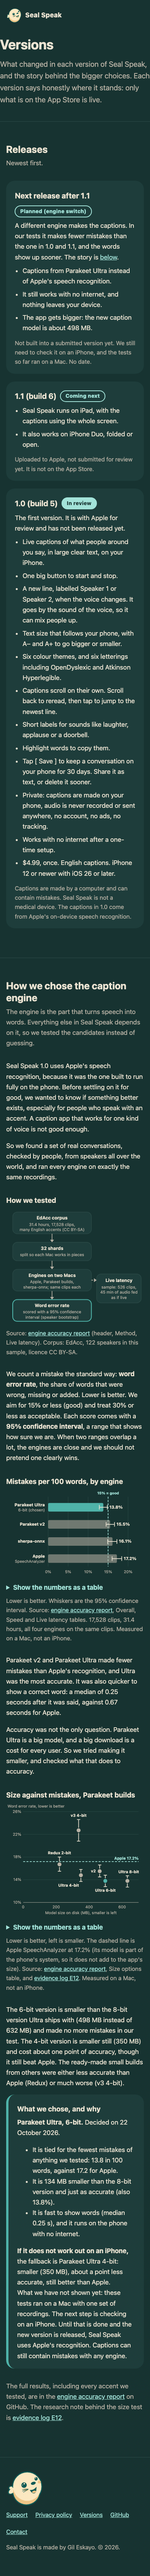
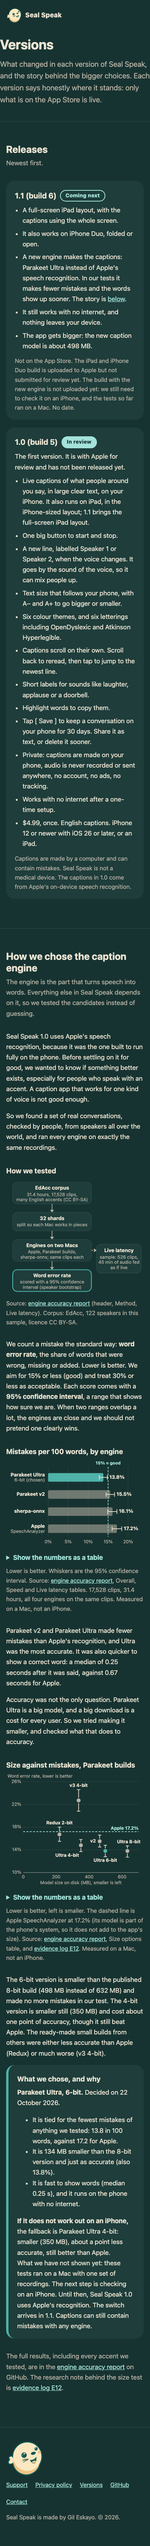
Site: Versions page, engine switch moves into 1.1 (#151)

Changed region(s): [[0.0308, 0.0, 0.9538, 0.9997]]

diff --git a/site/versions.html b/site/versions.html
@@ -126,30 +126,22 @@
       <p class="intro">Newest first.</p>
 
       <div class="card release">
-        <h3>Next release after 1.1 <span class="badge">Planned (engine switch)</span></h3>
-        <p>A different engine makes the captions. In our tests it makes fewer mistakes than the one in 1.0 and 1.1, and the words show up sooner. The story is <a href="#engine">below</a>.</p>
+        <h3>1.1 (build 6) <span class="badge">Coming next</span></h3>
         <ul>
-          <li>Captions from Parakeet Ultra instead of Apple's speech recognition.</li>
+          <li>A full-screen iPad layout, with the captions using the whole screen.</li>
+          <li>It also works on iPhone Duo, folded or open.</li>
+          <li>A new engine makes the captions: Parakeet Ultra instead of Apple's speech recognition. In our tests it makes fewer mistakes and the words show up sooner. The story is <a href="#engine">below</a>.</li>
           <li>It still works with no internet, and nothing leaves your device.</li>
           <li>The app gets bigger: the new caption model is about 498 MB.</li>
         </ul>
-        <p class="note">Not built into a submitted version yet. We still need to check it on an iPhone, and the tests so far ran on a Mac. No date.</p>
-      </div>
-
-      <div class="card release">
-        <h3>1.1 (build 6) <span class="badge">Coming next</span></h3>
-        <ul>
-          <li>Seal Speak runs on iPad, with the captions using the whole screen.</li>
-          <li>It also works on iPhone Duo, folded or open.</li>
-        </ul>
-        <p class="note">Uploaded to Apple, not submitted for review yet. It is not on the App Store.</p>
+        <p class="note">Not on the App Store. The iPad and iPhone Duo build is uploaded to Apple but not submitted for review yet. The build with the new engine is not uploaded yet: we still need to check it on an iPhone, and the tests so far ran on a Mac. No date.</p>
       </div>
 
       <div class="card release">
         <h3>1.0 (build 5) <span class="badge review">In review</span></h3>
         <p>The first version. It is with Apple for review and has not been released yet.</p>
         <ul>
-          <li>Live captions of what people around you say, in large clear text, on your iPhone.</li>
+          <li>Live captions of what people around you say, in large clear text, on your iPhone. It also runs on iPad, in the iPhone-sized layout; 1.1 brings the full-screen iPad layout.</li>
           <li>One big button to start and stop.</li>
           <li>A new line, labelled Speaker 1 or Speaker 2, when the voice changes. It goes by the sound of the voice, so it can mix people up.</li>
           <li>Text size that follows your phone, with A&minus; and A+ to go bigger or smaller.</li>
@@ -160,7 +152,7 @@
           <li>Tap [&nbsp;Save&nbsp;] to keep a conversation on your phone for 30 days. Share it as text, or delete it sooner.</li>
           <li>Private: captions are made on your phone, audio is never recorded or sent anywhere, no account, no ads, no tracking.</li>
           <li>Works with no internet after a one-time setup.</li>
-          <li>$4.99, once. English captions. iPhone 12 or newer with iOS 26 or later.</li>
+          <li>$4.99, once. English captions. iPhone 12 or newer with iOS 26 or later, or an iPad.</li>
         </ul>
         <p class="note">Captions are made by a computer and can contain mistakes. Seal Speak is not a medical device. The captions in 1.0 come from Apple's on-device speech recognition.</p>
       </div>
@@ -181,7 +173,7 @@
         <svg viewBox="0 0 420 352" role="img" aria-labelledby="m-t m-d">
 <title id="m-t">How the caption engines were tested</title>
 <desc id="m-d">Four steps from top to bottom. The EdAcc corpus, 31.4 hours of conversations in many English accents under a CC BY-SA licence, is split into 32 shards. Each engine runs on the same clips on two Macs. Each engine's word error rate is scored with a 95% confidence interval. A separate live latency sample of 526 clips, 45 minutes of audio, measures how soon words appear when audio is fed as if live.</desc>
-<rect class="box" x="20" y="8" width="240" height="66" rx="14"/><text x="140.0" y="31" text-anchor="middle" font-size="14" class="b">EdAcc corpus</text><text class="m" x="140.0" y="50" text-anchor="middle" font-size="12.5">31.4 hours, 17,528 clips,</text><text class="m" x="140.0" y="66" text-anchor="middle" font-size="12.5">many English accents (CC BY-SA)</text><path class="arrow" d="M140 74V94"/><path class="arrowhead" d="M134 92L140 100L146 92Z"/><rect class="box" x="20" y="100" width="240" height="56" rx="14"/><text x="140.0" y="123" text-anchor="middle" font-size="14" class="b">32 shards</text><text class="m" x="140.0" y="142" text-anchor="middle" font-size="12.5">split so each Mac works in pieces</text><path class="arrow" d="M140 156V176"/><path class="arrowhead" d="M134 174L140 182L146 174Z"/><rect class="box" x="20" y="182" width="240" height="66" rx="14"/><text x="140.0" y="205" text-anchor="middle" font-size="14" class="b">Engines on two Macs</text><text class="m" x="140.0" y="224" text-anchor="middle" font-size="12.5">Apple, Parakeet builds,</text><text class="m" x="140.0" y="240" text-anchor="middle" font-size="12.5">sherpa-onnx; same clips each</text><path class="arrow" d="M140 248V268"/><path class="arrowhead" d="M134 266L140 274L146 266Z"/><rect class="box pick" x="20" y="274" width="240" height="66" rx="14"/><text x="140.0" y="297" text-anchor="middle" font-size="14" class="b">Word error rate</text><text class="m" x="140.0" y="316" text-anchor="middle" font-size="12.5">scored with a 95% confidence</text><text class="m" x="140.0" y="332" text-anchor="middle" font-size="12.5">interval (speaker bootstrap)</text><rect class="box" x="276" y="196" width="136" height="88" rx="14"/><text x="344" y="220" text-anchor="middle" font-size="14" class="b">Live latency</text><text class="m" x="344" y="240" text-anchor="middle" font-size="12.5">sample: 526 clips,</text><text class="m" x="344" y="256" text-anchor="middle" font-size="12.5">45 min of audio fed</text><text class="m" x="344" y="272" text-anchor="middle" font-size="12.5">as if live</text><path class="arrow" d="M260 215H268" stroke-dasharray="5 4"/><path class="arrowhead" d="M268 209L276 215L268 221Z"/>
+<rect class="box" x="20" y="8" width="240" height="66" rx="14"/><text x="140.0" y="31" text-anchor="middle" font-size="15.5" class="b">EdAcc corpus</text><text class="m" x="140.0" y="50" text-anchor="middle" font-size="14">31.4 hours, 17,528 clips,</text><text class="m" x="140.0" y="66" text-anchor="middle" font-size="14">many English accents (CC BY-SA)</text><path class="arrow" d="M140 74V94"/><path class="arrowhead" d="M134 92L140 100L146 92Z"/><rect class="box" x="20" y="100" width="240" height="56" rx="14"/><text x="140.0" y="123" text-anchor="middle" font-size="15.5" class="b">32 shards</text><text class="m" x="140.0" y="142" text-anchor="middle" font-size="14">split so each Mac works in pieces</text><path class="arrow" d="M140 156V176"/><path class="arrowhead" d="M134 174L140 182L146 174Z"/><rect class="box" x="20" y="182" width="240" height="66" rx="14"/><text x="140.0" y="205" text-anchor="middle" font-size="15.5" class="b">Engines on two Macs</text><text class="m" x="140.0" y="224" text-anchor="middle" font-size="14">Apple, Parakeet builds,</text><text class="m" x="140.0" y="240" text-anchor="middle" font-size="14">sherpa-onnx; same clips each</text><path class="arrow" d="M140 248V268"/><path class="arrowhead" d="M134 266L140 274L146 266Z"/><rect class="box pick" x="20" y="274" width="240" height="66" rx="14"/><text x="140.0" y="297" text-anchor="middle" font-size="15.5" class="b">Word error rate</text><text class="m" x="140.0" y="316" text-anchor="middle" font-size="14">scored with a 95% confidence</text><text class="m" x="140.0" y="332" text-anchor="middle" font-size="14">interval (speaker bootstrap)</text><rect class="box" x="276" y="196" width="136" height="88" rx="14"/><text x="344" y="220" text-anchor="middle" font-size="15.5" class="b">Live latency</text><text class="m" x="344" y="240" text-anchor="middle" font-size="14">sample: 526 clips,</text><text class="m" x="344" y="256" text-anchor="middle" font-size="14">45 min of audio fed</text><text class="m" x="344" y="272" text-anchor="middle" font-size="14">as if live</text><path class="arrow" d="M260 215H268" stroke-dasharray="5 4"/><path class="arrowhead" d="M268 209L276 215L268 221Z"/>
 </svg>
         <figcaption class="src">Source: <a href="https://github.com/G-Eskayo/clarity-captions/blob/feature/145-engine-eval/docs/perf/engine-accuracy-comparison.md">engine accuracy report</a> (header, Method, Live latency). Corpus: EdAcc, 122 speakers in this sample, licence CC BY-SA.</figcaption>
       </figure>
@@ -195,8 +187,8 @@
         <svg viewBox="0 0 420 266" role="img" aria-labelledby="a-t a-d">
 <title id="a-t">Word error rate by caption engine, with 95% confidence intervals</title>
 <desc id="a-d">Lower is better. Parakeet Ultra 6-bit 13.8% (12.8 to 14.8). Parakeet v2 15.5% (14.5 to 16.6). sherpa-onnx 16.1% (14.9 to 17.2). Apple SpeechAnalyzer 17.2% (16.0 to 18.4). A dashed line marks the 15% target for good.</desc>
-<line class="grid" x1="128.0" y1="20" x2="128.0" y2="232"/><text class="m" x="128.0" y="252" text-anchor="middle" font-size="12">0%</text><line class="grid" x1="189.0" y1="20" x2="189.0" y2="232"/><text class="m" x="189.0" y="252" text-anchor="middle" font-size="12">5%</text><line class="grid" x1="250.0" y1="20" x2="250.0" y2="232"/><text class="m" x="250.0" y="252" text-anchor="middle" font-size="12">10%</text><line class="grid" x1="311.0" y1="20" x2="311.0" y2="232"/><text class="m" x="311.0" y="252" text-anchor="middle" font-size="12">15%</text><line class="grid" x1="372.0" y1="20" x2="372.0" y2="232"/><text class="m" x="372.0" y="252" text-anchor="middle" font-size="12">20%</text><line class="ref" x1="311.0" y1="20" x2="311.0" y2="232"/><text class="reflabel" x="311.0" y="13" text-anchor="middle" font-size="11">15% = good</text><text x="118" y="49" text-anchor="end" font-size="13" class="b">Parakeet Ultra</text><text class="m" x="118" y="65" text-anchor="end" font-size="12">6-bit (chosen)</text><rect class="bar pick" x="128" y="39" width="168.4" height="26" rx="4"/><path class="whisk" d="M284.2 52H308.6M284.2 45V59M308.6 45V59"/><text x="118" y="108" text-anchor="end" font-size="13" class="b">Parakeet v2</text><rect class="bar" x="128" y="91" width="189.1" height="26" rx="4"/><path class="whisk" d="M304.9 104H330.5M304.9 97V111M330.5 97V111"/><text x="118" y="160" text-anchor="end" font-size="13" class="b">sherpa-onnx</text><rect class="bar" x="128" y="143" width="196.4" height="26" rx="4"/><path class="whisk" d="M309.8 156H337.8M309.8 149V163M337.8 149V163"/><text x="118" y="205" text-anchor="end" font-size="13" class="b">Apple</text><text class="m" x="118" y="221" text-anchor="end" font-size="12">SpeechAnalyzer</text><rect class="bar" x="128" y="195" width="209.8" height="26" rx="4"/><path class="whisk" d="M323.2 208H352.5M323.2 201V215M352.5 201V215"/>
-<text x="314.6" y="56" font-size="13" class="b">13.8%</text><text x="336.5" y="108" font-size="13" class="b">15.5%</text><text x="343.8" y="160" font-size="13" class="b">16.1%</text><text x="358.5" y="212" font-size="13" class="b">17.2%</text>
+<line class="grid" x1="128.0" y1="20" x2="128.0" y2="232"/><text class="m" x="128.0" y="252" text-anchor="middle" font-size="14">0%</text><line class="grid" x1="189.0" y1="20" x2="189.0" y2="232"/><text class="m" x="189.0" y="252" text-anchor="middle" font-size="14">5%</text><line class="grid" x1="250.0" y1="20" x2="250.0" y2="232"/><text class="m" x="250.0" y="252" text-anchor="middle" font-size="14">10%</text><line class="grid" x1="311.0" y1="20" x2="311.0" y2="232"/><text class="m" x="311.0" y="252" text-anchor="middle" font-size="14">15%</text><line class="grid" x1="372.0" y1="20" x2="372.0" y2="232"/><text class="m" x="372.0" y="252" text-anchor="middle" font-size="14">20%</text><line class="ref" x1="311.0" y1="20" x2="311.0" y2="232"/><text class="reflabel" x="311.0" y="13" text-anchor="middle" font-size="13">15% = good</text><text x="118" y="49" text-anchor="end" font-size="15" class="b">Parakeet Ultra</text><text class="m" x="118" y="65" text-anchor="end" font-size="14">6-bit (chosen)</text><rect class="bar pick" x="128" y="39" width="168.4" height="26" rx="4"/><path class="whisk" d="M284.2 52H308.6M284.2 45V59M308.6 45V59"/><text x="118" y="108" text-anchor="end" font-size="15" class="b">Parakeet v2</text><rect class="bar" x="128" y="91" width="189.1" height="26" rx="4"/><path class="whisk" d="M304.9 104H330.5M304.9 97V111M330.5 97V111"/><text x="118" y="160" text-anchor="end" font-size="15" class="b">sherpa-onnx</text><rect class="bar" x="128" y="143" width="196.4" height="26" rx="4"/><path class="whisk" d="M309.8 156H337.8M309.8 149V163M337.8 149V163"/><text x="118" y="205" text-anchor="end" font-size="15" class="b">Apple</text><text class="m" x="118" y="221" text-anchor="end" font-size="14">SpeechAnalyzer</text><rect class="bar" x="128" y="195" width="209.8" height="26" rx="4"/><path class="whisk" d="M323.2 208H352.5M323.2 201V215M352.5 201V215"/>
+<text x="314.6" y="56" font-size="15" class="b">13.8%</text><text x="336.5" y="108" font-size="15" class="b">15.5%</text><text x="343.8" y="160" font-size="15" class="b">16.1%</text><text x="358.5" y="212" font-size="15" class="b">17.2%</text>
 </svg>
         <details class="data"><summary>Show the numbers as a table</summary><div class="tablewrap"><table class="data"><caption class="sr-only">Word error rate by engine</caption><thead><tr><th scope="col">Engine</th><th class="n" scope="col">WER</th><th class="n" scope="col">95% CI</th><th class="n" scope="col">Correct word, median</th><th class="n" scope="col">Speed</th></tr></thead><tbody><tr><th scope="row">Parakeet Ultra 6-bit</th><td class="n">13.8%</td><td class="n">12.8% to 14.8%</td><td class="n">0.25 s</td><td class="n">101.6x real time</td></tr><tr><th scope="row">Parakeet v2</th><td class="n">15.5%</td><td class="n">14.5% to 16.6%</td><td class="n">0.24 s</td><td class="n">117.3x</td></tr><tr><th scope="row">sherpa-onnx</th><td class="n">16.1%</td><td class="n">14.9% to 17.2%</td><td class="n">0.39 s</td><td class="n">31.0x</td></tr><tr><th scope="row">Apple SpeechAnalyzer</th><td class="n">17.2%</td><td class="n">16.0% to 18.4%</td><td class="n">0.67 s</td><td class="n">43.6x</td></tr></tbody></table></div></details>
         <figcaption class="src">Lower is better. Whiskers are the 95% confidence interval. Source: <a href="https://github.com/G-Eskayo/clarity-captions/blob/feature/145-engine-eval/docs/perf/engine-accuracy-comparison.md">engine accuracy report</a>, Overall, Speed and Live latency tables. 17,528 clips, 31.4 hours, all four engines on the same clips. Measured on a Mac, not an iPhone.</figcaption>
@@ -212,14 +204,14 @@
         <svg viewBox="0 0 420 346" role="img" aria-labelledby="b-t b-d">
 <title id="b-t">Model size against word error rate for the Parakeet builds</title>
 <desc id="b-d">Lower is better, and further left is smaller. Ultra 6-bit is 498 MB at 13.8%, the same accuracy as the 632 MB Ultra 8-bit. Ultra 4-bit is 350 MB at 14.8%. Parakeet v2 is 464 MB at 15.5%. Redux is 220 MB at 16.7%. The v3 4-bit build is 336 MB at 22.7%. A dashed line marks Apple SpeechAnalyzer at 17.2%. Ultra 6-bit, Ultra 4-bit, v2 and Ultra 8-bit all sit below it.</desc>
-<line class="grid" x1="52" y1="300.0" x2="404" y2="300.0"/><text class="m" x="46" y="304.0" text-anchor="end" font-size="12">10%</text><line class="grid" x1="52" y1="231.0" x2="404" y2="231.0"/><text class="m" x="46" y="235.0" text-anchor="end" font-size="12">14%</text><line class="grid" x1="52" y1="162.0" x2="404" y2="162.0"/><text class="m" x="46" y="166.0" text-anchor="end" font-size="12">18%</text><line class="grid" x1="52" y1="93.0" x2="404" y2="93.0"/><text class="m" x="46" y="97.0" text-anchor="end" font-size="12">22%</text><line class="grid" x1="52" y1="24.0" x2="404" y2="24.0"/><text class="m" x="46" y="28.0" text-anchor="end" font-size="12">26%</text><text class="m" x="52.0" y="318" text-anchor="middle" font-size="12">0</text><text class="m" x="152.6" y="318" text-anchor="middle" font-size="12">200</text><text class="m" x="253.1" y="318" text-anchor="middle" font-size="12">400</text><text class="m" x="353.7" y="318" text-anchor="middle" font-size="12">600</text><text class="m" x="228" y="336" text-anchor="middle" font-size="12">Model size on disk (MB), smaller is left</text><text class="m" x="4" y="12" font-size="12">Word error rate, lower is better</text><line class="axis" x1="52" y1="300" x2="404" y2="300"/><line class="ref" x1="52" y1="175.8" x2="404" y2="175.8"/><text class="reflabel" x="404" y="169.8" text-anchor="end" font-size="12">Apple 17.2%</text><path class="whisk" d="M162.6 205.1V162.0M157.6 205.1H167.6M157.6 162.0H167.6"/><circle class="dot" cx="162.6" cy="184.4" r="7"/><text x="162.6" y="154.0" text-anchor="middle" font-size="12" class="b">Redux 2-bit</text><path class="whisk" d="M221.0 113.7V48.1M216.0 113.7H226.0M216.0 48.1H226.0"/><circle class="dot" cx="221.0" cy="80.9" r="7"/><text x="221.0" y="40.1" text-anchor="middle" font-size="12" class="b">v3 4-bit</text><path class="whisk" d="M228.0 236.2V199.9M223.0 236.2H233.0M223.0 199.9H233.0"/><circle class="dot" cx="228.0" cy="217.2" r="7"/><text x="222.0" y="252.2" text-anchor="end" font-size="12" class="b">Ultra 4-bit</text><path class="whisk" d="M285.3 222.4V186.1M280.3 222.4H290.3M280.3 186.1H290.3"/><circle class="dot" cx="285.3" cy="205.1" r="7"/><text x="273.3" y="209.1" text-anchor="end" font-size="12" class="b">v2</text><path class="whisk" d="M302.4 251.7V217.2M297.4 251.7H307.4M297.4 217.2H307.4"/><circle class="dot pick" cx="302.4" cy="234.4" r="7"/><text x="302.4" y="267.7" text-anchor="middle" font-size="12" class="b">Ultra 6-bit</text><path class="whisk" d="M369.8 253.4V218.9M364.8 253.4H374.8M364.8 218.9H374.8"/><circle class="dot" cx="369.8" cy="234.4" r="7"/><text x="373.8" y="210.9" text-anchor="middle" font-size="12" class="b">Ultra 8-bit</text>
+<line class="grid" x1="52" y1="300.0" x2="404" y2="300.0"/><text class="m" x="46" y="304.0" text-anchor="end" font-size="14">10%</text><line class="grid" x1="52" y1="231.0" x2="404" y2="231.0"/><text class="m" x="46" y="235.0" text-anchor="end" font-size="14">14%</text><line class="grid" x1="52" y1="162.0" x2="404" y2="162.0"/><text class="m" x="46" y="166.0" text-anchor="end" font-size="14">18%</text><line class="grid" x1="52" y1="93.0" x2="404" y2="93.0"/><text class="m" x="46" y="97.0" text-anchor="end" font-size="14">22%</text><line class="grid" x1="52" y1="24.0" x2="404" y2="24.0"/><text class="m" x="46" y="28.0" text-anchor="end" font-size="14">26%</text><text class="m" x="52.0" y="318" text-anchor="middle" font-size="14">0</text><text class="m" x="152.6" y="318" text-anchor="middle" font-size="14">200</text><text class="m" x="253.1" y="318" text-anchor="middle" font-size="14">400</text><text class="m" x="353.7" y="318" text-anchor="middle" font-size="14">600</text><text class="m" x="228" y="336" text-anchor="middle" font-size="14">Model size on disk (MB), smaller is left</text><text class="m" x="4" y="12" font-size="14">Word error rate, lower is better</text><line class="axis" x1="52" y1="300" x2="404" y2="300"/><line class="ref" x1="52" y1="175.8" x2="404" y2="175.8"/><text class="reflabel" x="404" y="169.8" text-anchor="end" font-size="14">Apple 17.2%</text><path class="whisk" d="M162.6 205.1V162.0M157.6 205.1H167.6M157.6 162.0H167.6"/><circle class="dot" cx="162.6" cy="184.4" r="7"/><text x="162.6" y="154.0" text-anchor="middle" font-size="14" class="b">Redux 2-bit</text><path class="whisk" d="M221.0 113.7V48.1M216.0 113.7H226.0M216.0 48.1H226.0"/><circle class="dot" cx="221.0" cy="80.9" r="7"/><text x="221.0" y="40.1" text-anchor="middle" font-size="14" class="b">v3 4-bit</text><path class="whisk" d="M228.0 236.2V199.9M223.0 236.2H233.0M223.0 199.9H233.0"/><circle class="dot" cx="228.0" cy="217.2" r="7"/><text x="222.0" y="252.2" text-anchor="end" font-size="14" class="b">Ultra 4-bit</text><path class="whisk" d="M285.3 222.4V186.1M280.3 222.4H290.3M280.3 186.1H290.3"/><circle class="dot" cx="285.3" cy="205.1" r="7"/><text x="273.3" y="209.1" text-anchor="end" font-size="14" class="b">v2</text><path class="whisk" d="M302.4 251.7V217.2M297.4 251.7H307.4M297.4 217.2H307.4"/><circle class="dot pick" cx="302.4" cy="234.4" r="7"/><text x="302.4" y="267.7" text-anchor="middle" font-size="14" class="b">Ultra 6-bit</text><path class="whisk" d="M369.8 253.4V218.9M364.8 253.4H374.8M364.8 218.9H374.8"/><circle class="dot" cx="369.8" cy="234.4" r="7"/><text x="373.8" y="210.9" text-anchor="middle" font-size="14" class="b">Ultra 8-bit</text>
 </svg>
         <details class="data"><summary>Show the numbers as a table</summary><div class="tablewrap"><table class="data"><caption class="sr-only">Size and word error rate of the Parakeet builds</caption><thead><tr><th scope="col">Build</th><th class="n" scope="col">On disk</th><th class="n" scope="col">WER</th><th class="n" scope="col">95% CI</th><th class="n" scope="col">Beats Apple?</th></tr></thead><tbody><tr><th scope="row">Redux (2-bit)</th><td class="n">220 MB</td><td class="n">16.7%</td><td class="n">15.5% to 18.0%</td><td class="n">no</td></tr><tr><th scope="row">v3 (4-bit)</th><td class="n">336 MB</td><td class="n">22.7%</td><td class="n">20.8% to 24.6%</td><td class="n">no</td></tr><tr><th scope="row">Ultra 4-bit</th><td class="n">350 MB</td><td class="n">14.8%</td><td class="n">13.7% to 15.8%</td><td class="n">yes</td></tr><tr><th scope="row">v2</th><td class="n">464 MB</td><td class="n">15.5%</td><td class="n">14.5% to 16.6%</td><td class="n">yes</td></tr><tr><th scope="row">Ultra 6-bit (chosen)</th><td class="n">498 MB</td><td class="n">13.8%</td><td class="n">12.8% to 14.8%</td><td class="n">yes</td></tr><tr><th scope="row">Ultra 8-bit (as published)</th><td class="n">632 MB</td><td class="n">13.8%</td><td class="n">12.7% to 14.7%</td><td class="n">yes</td></tr></tbody></table></div></details>
         <figcaption class="src">Lower is better, left is smaller. The dashed line is Apple SpeechAnalyzer at 17.2% (its model is part of the phone's system, so it does not add to the app's size). Source: <a href="https://github.com/G-Eskayo/clarity-captions/blob/feature/145-engine-eval/docs/perf/engine-accuracy-comparison.md">engine accuracy report</a>, Size options table, and <a href="https://github.com/G-Eskayo/clarity-captions/blob/feature/145-engine-eval/docs/research/evidence-log.md">evidence log E12</a>. Measured on a Mac, not an iPhone.</figcaption>
       </figure>
 
       <div class="prose">
-        <p>The 6-bit version is smaller than the 8-bit version Ultra ships with (498 MB instead of 632 MB) and made no more mistakes in our test. The 4-bit version is smaller still (350 MB) and cost about one point of accuracy, though it still beat Apple. The ready-made small builds from others were either less accurate than Apple (Redux) or much worse (v3 4-bit).</p>
+        <p>The 6-bit version is smaller than the published 8-bit build (498 MB instead of 632 MB) and made no more mistakes in our test. The 4-bit version is smaller still (350 MB) and cost about one point of accuracy, though it still beat Apple. The ready-made small builds from others were either less accurate than Apple (Redux) or much worse (v3 4-bit).</p>
       </div>
 
       <div class="card pick-card">
@@ -231,7 +223,7 @@
           <li>It is fast to show words (median 0.25 s), and it runs on the phone with no internet.</li>
         </ul>
         <p><strong>If it does not work out on an iPhone,</strong> the fallback is Parakeet Ultra 4-bit: smaller (350 MB), about a point less accurate, still better than Apple.</p>
-        <p class="note">What we have not shown yet: these tests ran on a Mac with one set of recordings. The next step is checking on an iPhone. Until that is done and the new version is released, Seal Speak uses Apple's recognition. Captions can still contain mistakes with any engine.</p>
+        <p class="note">What we have not shown yet: these tests ran on a Mac with one set of recordings. The next step is checking on an iPhone. Until then, Seal Speak 1.0 uses Apple's recognition. The switch arrives in 1.1. Captions can still contain mistakes with any engine.</p>
       </div>
 
       <p class="intro" style="margin-top:2rem">The full results, including every accent we tested, are in the <a href="https://github.com/G-Eskayo/clarity-captions/blob/feature/145-engine-eval/docs/perf/engine-accuracy-comparison.md">engine accuracy report</a> on GitHub. The research note behind the size test is <a href="https://github.com/G-Eskayo/clarity-captions/blob/feature/145-engine-eval/docs/research/evidence-log.md">evidence log E12</a>.</p>

diff --git a/docs/design/versions-page.md b/docs/design/versions-page.md
@@ -14,9 +14,8 @@ Same as `site/index.html`: Peach in light, Harbor in dark (`prefers-color-scheme
 
 1. **Header / intro.** What this page is. States that unreleased versions are labelled as such.
 2. **Releases**, newest first, each with an honest status badge:
-   - *Planned (engine switch)*: captions from Parakeet Ultra 6-bit instead of Apple's recognizer. Not built into a submitted release yet; iPhone checks still to do.
-   - *Coming next, 1.1 (build 6)*: iPad and iPhone Duo. Uploaded, not yet submitted.
-   - *In review, 1.0 (build 5)*: everything in the 1.0 App Store listing, in user language. Not released.
+   - *Coming next, 1.1 (build 6)*: full-screen iPad layout, iPhone Duo, and the engine switch to Parakeet Ultra 6-bit. The iPad/Duo build is uploaded, not submitted; the engine build is not uploaded yet; iPhone checks still to do.
+   - *In review, 1.0 (build 5)*: everything in the 1.0 App Store listing, in user language. Runs on iPad in the iPhone-sized layout. Not released.
 3. **How we chose the caption engine.** Story in short paragraphs, then:
    - Method diagram (inline SVG).
    - Chart A: WER with 95% CI per engine.
